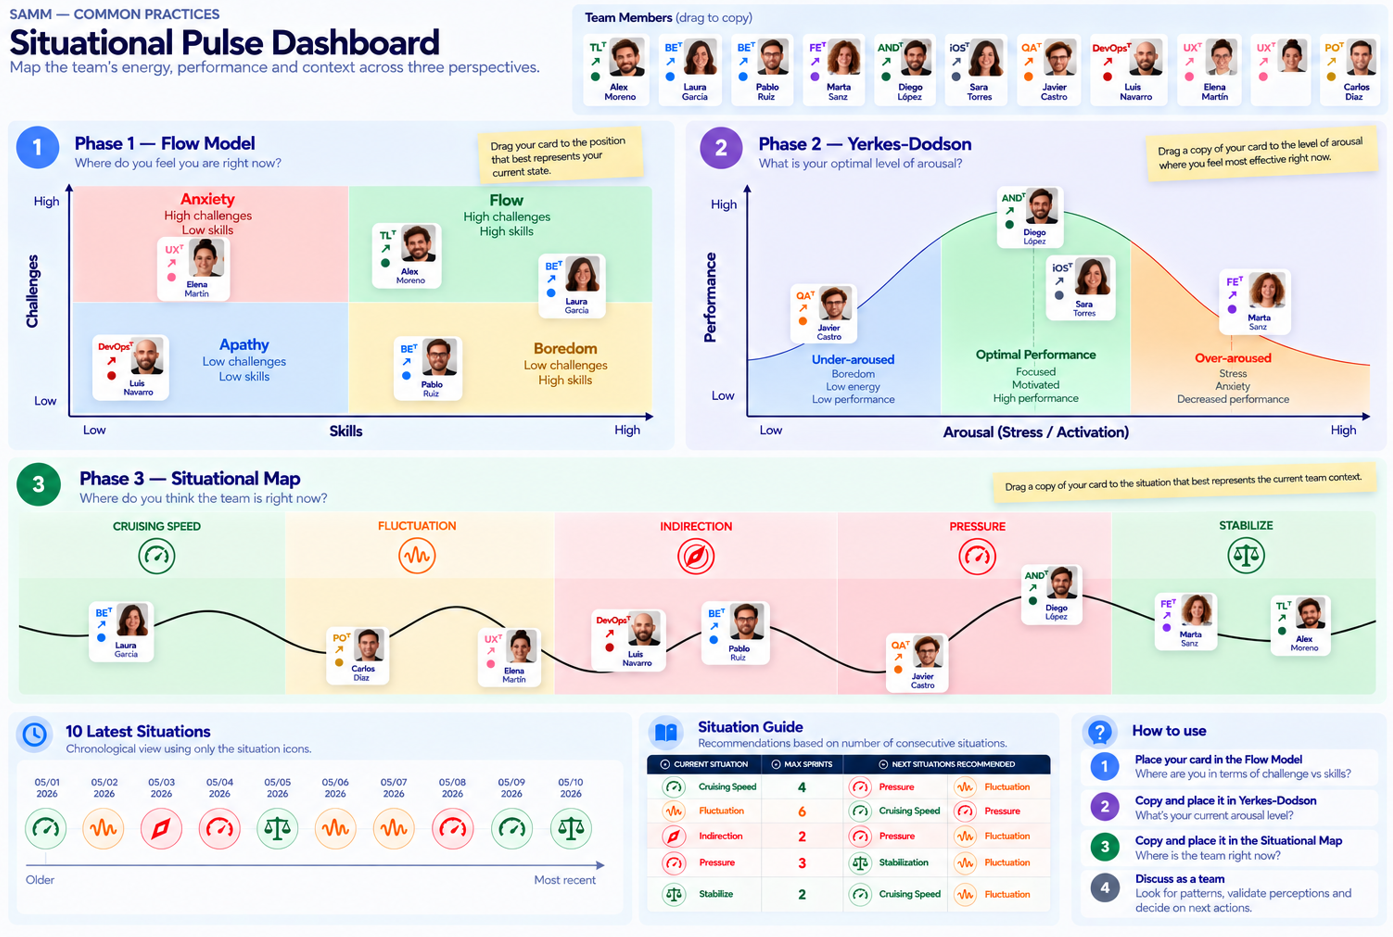
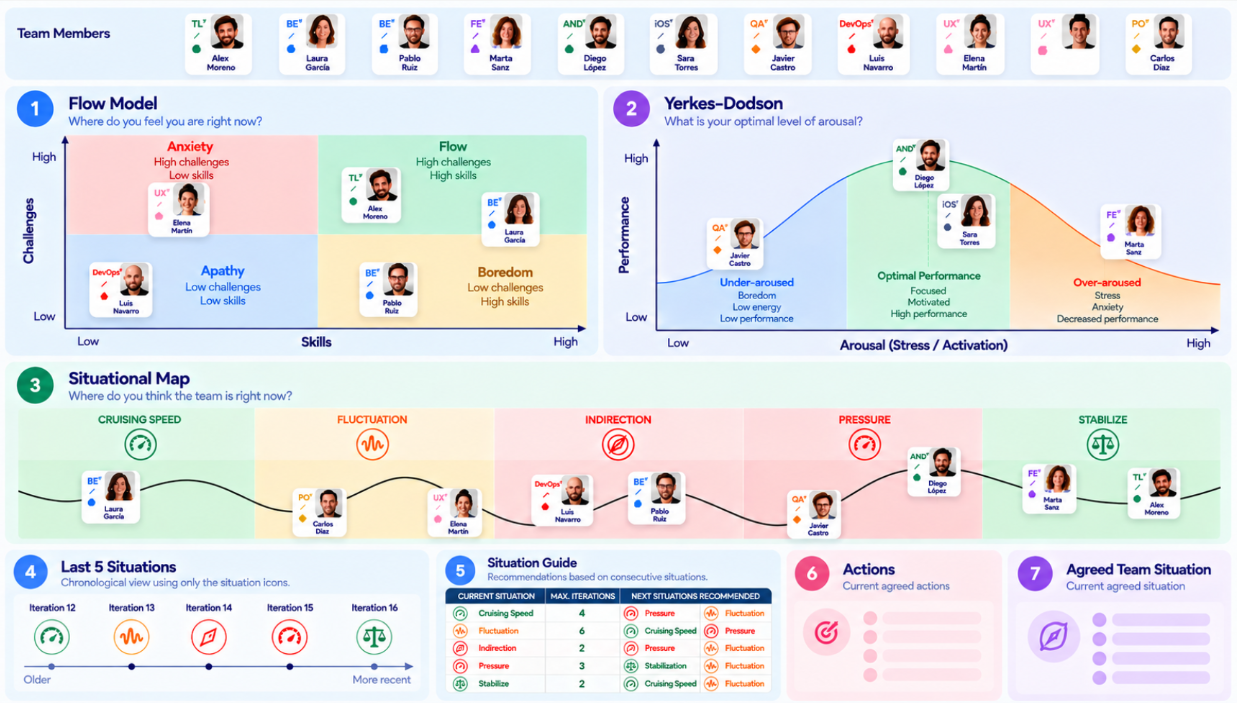
update

diff --git a/_posts/2026-09-26-common-samm-practices.md b/_posts/2026-09-26-common-samm-practices.md
@@ -203,21 +203,10 @@ Finally, each person indicates which situation best represents their perception 
 
 **Cruising Speed · Fluctuation · Indirection · Pressure · Stabilize**
 
-Different observations are information in themselves. The team makes those perceptions visible, discusses what lies behind them, and builds a **shared understanding of the situation experienced during that period**.
-
-### Situational Memory
+> Different observations are information in themselves. The team makes those perceptions visible, 
+> discusses what lies behind them, and builds a **shared understanding of the situation experienced > during that period**.
 
 The board preserves the **last five SAMM Situations**, making the recent trajectory of the system visible and progressively building its [**Situational Memory**](https://leadingdepth.com/the-situational-map/#situational-memory).
-
----
-
-<br>
-<center>
-<img src="/wp-content/uploads/samm-common-practices-06-situations-in-time.png" width="800"/>
-</center>
-<br>
-
----
 
 An isolated situation tells us where we believe we are. Situational Memory helps us understand **how we arrived there and how the system responded to previous decisions and interventions**.
 
@@ -226,8 +215,6 @@ An isolated situation tells us where we believe we are. Situational Memory helps
 The distance between Pulses matters because **the system needs time to respond**.
 
 > **The dashboard provides signals. The conversation provides understanding.**
-
-### From Observation to Intervention
 
 Observations can lead to **specific actions agreed by the team**, with clear ownership for follow-up.
 
